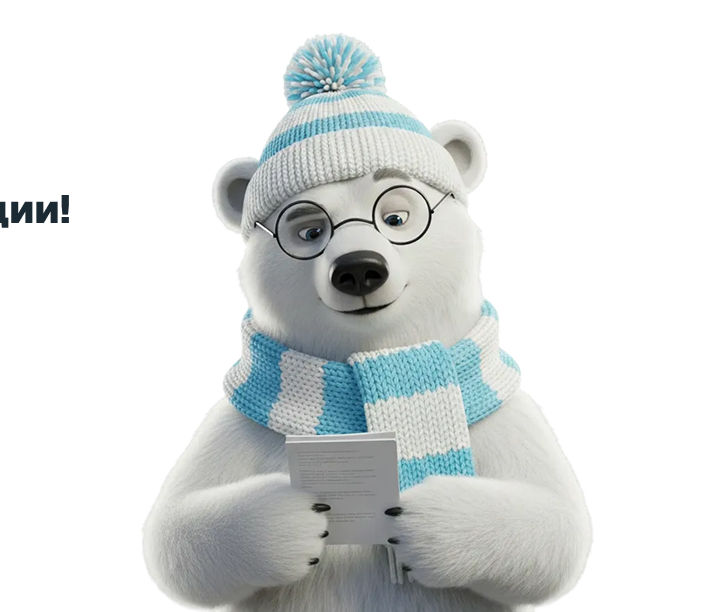
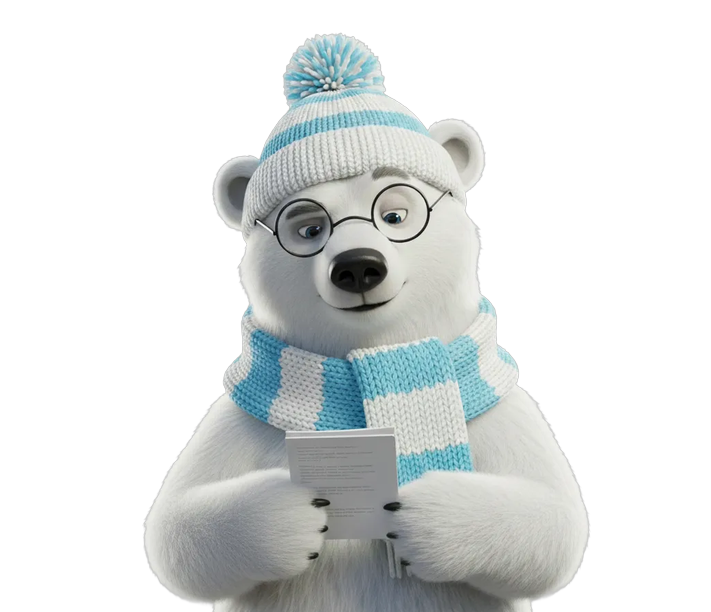
fix: clean bear illustration and remove button margin bleeding into winners tabs

diff --git a/templates/base.html b/templates/base.html
@@ -770,7 +770,7 @@
       display: grid;
       grid-template-columns: repeat(4, 344px);
       column-gap: 0;
-      row-gap: 16px;
+      row-gap: 0;
       width: 1376px;
       max-width: 100%;
       margin: 32px auto 0;
@@ -778,12 +778,16 @@
       list-style: none;
     }
     .winners-tab {
-      display: block;
+      display: flex;
+      align-items: center;
+      justify-content: center;
       width: 100%;
+      height: 48px;
+      margin: 0;
       box-sizing: border-box;
       border: none;
       border-radius: 152px;
-      padding: 10px 24px;
+      padding: 0 24px;
       background: transparent;
       font-family: "Mulish", sans-serif;
       font-weight: 600;
